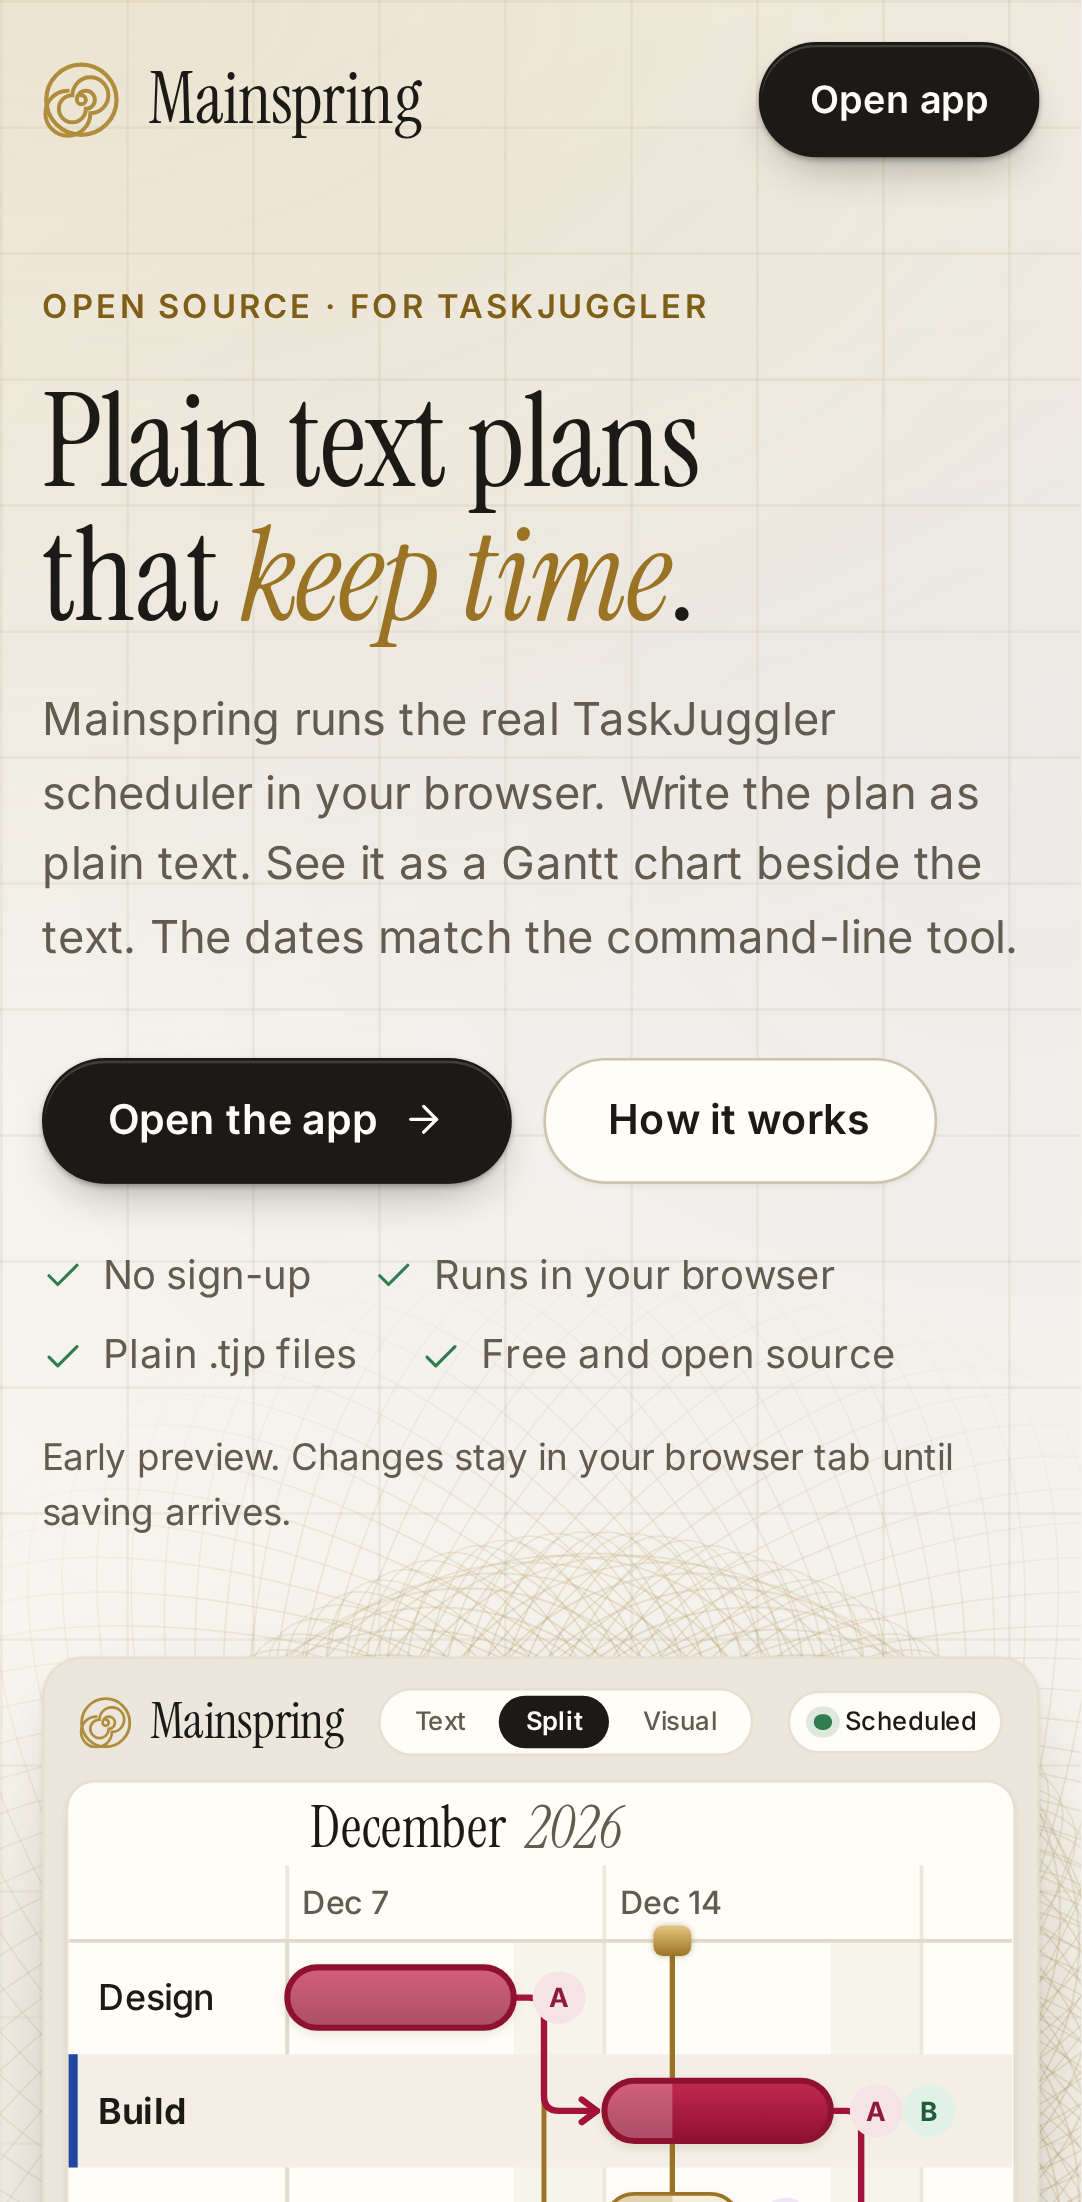
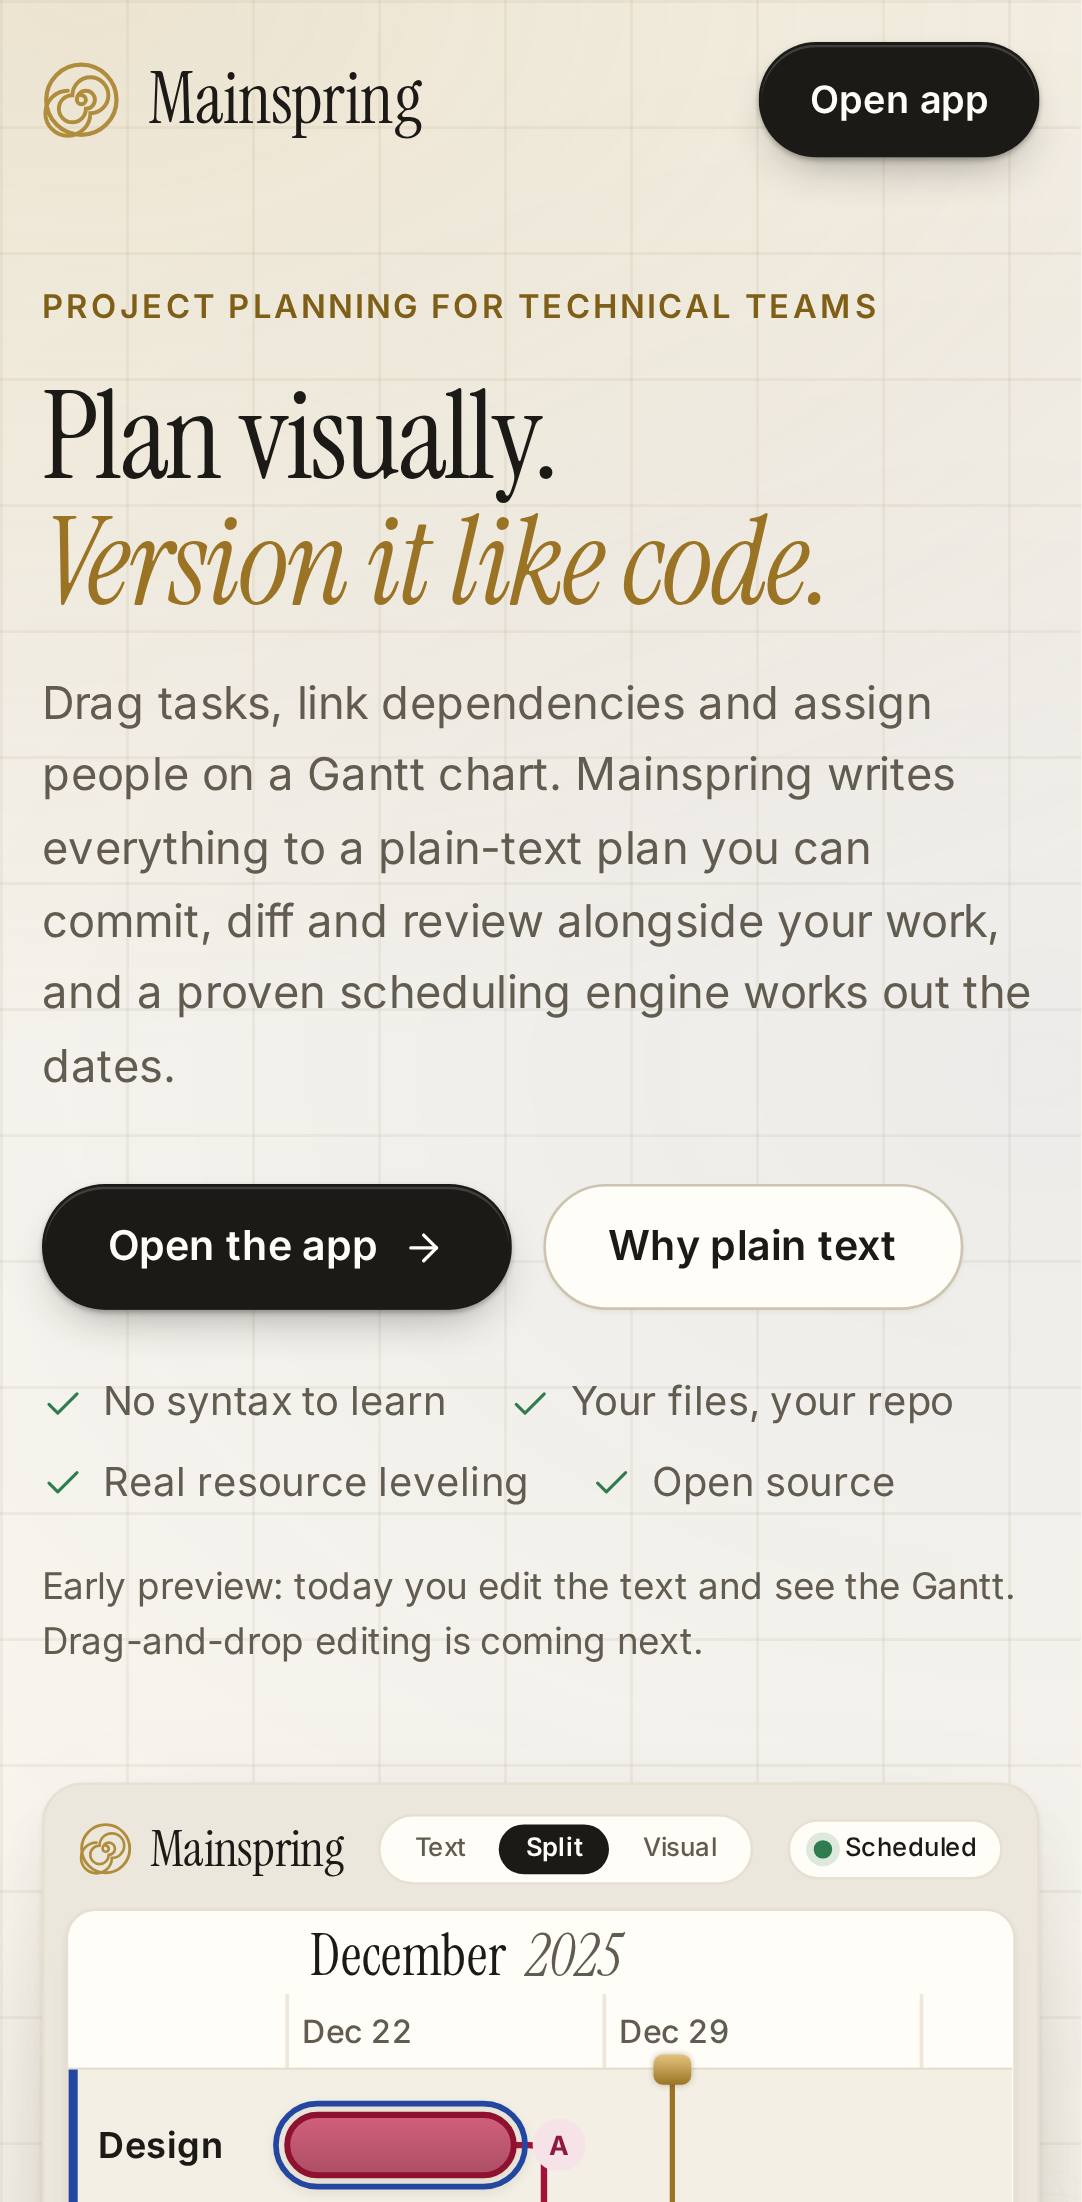
feat(landing): lead with visual planning and plans as code for technical teams (ADR-0011)
Rework the landing page for technical project managers and engineering leads who do not
know TaskJuggler. New hero (Plan visually. Version it like code.) with a Split view mock,
a pull-request section, no syntax to learn, a plain-language scheduler section, who it is
for, FAQ and a short TaskJuggler credit. Visual editing stays tagged Coming. Updates the
honesty tests, e2e tests, ADR-0011 and screenshots.

Claude-Session: https://claude.ai/code/session_018x5vMW7RJi75erXSGU1vHa

diff --git a/tests/e2e/landing.spec.ts b/tests/e2e/landing.spec.ts
@@ -75,7 +75,8 @@ test.describe('landing page', () => {
 		await expect(syntax.locator('.lp-tag')).toHaveCount(3);
 		await expect(page.locator('#repo .lp-tag')).toHaveCount(1);
 		// "What works today" does not list it.
-		await expect(page.locator('#features li.card:not(.ahead)')).not.toContainText(/drag/i);
+		const available = await page.locator('#features li.card:not(.ahead)').allInnerTexts();
+		expect(available.join(' ')).not.toMatch(/drag/i);
 	});
 
 	test('marks every planned feature as coming, and nothing available as coming', async ({

diff --git a/src/styles/landing.css b/src/styles/landing.css
@@ -34,6 +34,7 @@
 	--lp-ruby-bottom: #8f1130;
 	--lp-ruby-soft: #f7e3e8;
 	--lp-ok: #2f7d4f;
+	--lp-ok-text: #1f6b3f;
 	--lp-ok-halo: rgb(47 125 79 / 0.16);
 	/* Chrome of the product mocks */
 	--lp-guilloche: rgb(154 116 36 / 0.22);
@@ -64,6 +65,7 @@
 		--lp-ruby-bottom: #a32447;
 		--lp-ruby-soft: #3a1620;
 		--lp-ok: #6fcf97;
+		--lp-ok-text: #6fcf97;
 		--lp-ok-halo: rgb(111 207 151 / 0.16);
 		--lp-guilloche: rgb(210 174 92 / 0.2);
 		--lp-shadow-mock:

diff --git a/docs/decisions/0011-landing-page.md b/docs/decisions/0011-landing-page.md
@@ -17,30 +17,56 @@ subhead, a dark primary pill button and an outlined secondary one, a row of smal
 a floating product mock with a soft shadow (sometimes tilted), warm grounds with faint colour
 washes or a grid, feature sections with clear headings, and an open-source footer.
 
+## Amendment, 2026-11-13: audience and messaging
+
+The user reviewed the first page and said it explained poorly what is good about the app,
+especially to people who do not know TaskJuggler. The audience is technical project managers and
+engineering leads, not TaskJuggler users. The draw is to build a plan with visual tools and get a
+plain-text file that can be version controlled, with no syntax to learn. TaskJuggler is the proof
+that the scheduling is serious; it is not a prerequisite. The page was restructured around that
+(the structure in decision 2 is the reworked one). Visual editing is still not built: the page
+leads with the aim and says plainly that it is the next step.
+
 ## Decision
 
 1. **A static Astro page with no client script.** The page ships HTML, CSS and inline SVG only.
    There is no framework island. No raster image is used: the product mocks are HTML and SVG, so
    they stay sharp, scale with the screen and follow light and dark. A test asserts that the page
    has no `<img>` and no `<script>`.
-2. **Structure.** Header with a brass mark and navigation; hero; "How it works"; features
-   (available, then coming); "Built on TaskJuggler"; a phone section; a closing call to action;
-   a footer.
-   - **Hero.** Eyebrow "Open source · For TaskJuggler"; the headline "Plain text plans that
-     _keep time_." with an italic brass accent; a subhead; "Open the app" (primary, through
-     `sitePath('app')`) and "How it works" (an anchor); four checkmark facts; and a tilted mock of
-     the Split view, editor beside Gantt.
-   - **How it works.** "The text is the plan. The chart is _a view_." A plan snippet beside its
-     Gantt, with the line `effort 10d` and the Build bar highlighted, and three short steps.
+2. **Structure** (reworked on 2026-11-13, see the amendment above). Header with a brass mark and
+   navigation; hero; "Why your plan belongs in your repository"; "No syntax to learn"; "A
+   scheduler that does the hard part"; who it is for; features (available, then coming); a phone
+   section; a short FAQ; "Built on TaskJuggler"; a closing call to action; a footer.
+   - **Hero.** Eyebrow "Project planning for technical teams"; the headline "Plan visually.
+     _Version it like code._" with an italic brass accent; the subhead; "Open the app" (primary,
+     through `sitePath('app')`) and "Why plain text" (an anchor); four checkmark facts; the honest
+     line "Early preview: today you edit the text and see the Gantt. Drag-and-drop editing is
+     coming next."; and a tilted mock of the Split view: the plain-text plan on the left and its
+     Gantt on the right, for the same four tasks, with Design selected in both (blued-steel edge)
+     and the edited `effort` line in brass.
+   - **Why your plan belongs in your repository.** Five benefits (review like code, history,
+     branch a what-if, no lock-in, plain text outlives any tool) beside a mock pull request that
+     changes `effort 5d` to `effort 8d`, with the note "Finish moves Jan 6 → Jan 9". The note is a
+     schedule diff, which is a planned feature, so it carries a "Coming" tag.
+   - **No syntax to learn.** A drag on the Gantt becomes one small text change. Visual editing
+     is not built, so the Gantt half carries a "Coming" tag, the drag points are tagged, and the
+     page says "Visual editing is the next step. Today you edit the text and the Gantt follows."
+   - **A scheduler that does the hard part.** Four plain-language cards with small drawings:
+     effort shared by people, nobody double-booked, holidays and leave, the critical path; then
+     the credit to TaskJuggler.
+   - **Who it is for.** Engineering leads, technical project managers, hardware and systems teams.
    - **Features.** Six cards for what works today, then six dashed cards, each with a small brass
      "Coming" tag.
-   - **Built on TaskJuggler.** Credit and a link to taskjuggler.org, what TaskJuggler schedules,
-     the GPL notice, and a "movement" plate with the engine's specification.
    - **Phone.** A phone mock with the Gantt, a task card and the pill tab bar.
+   - **FAQ.** Do I need to know TaskJuggler (no), where do my plans live (in the browser tab today),
+     is it free (yes), can I use my existing TaskJuggler files (yes, paste them in today).
+   - **Built on TaskJuggler.** Kept short: the credit, a link to taskjuggler.org, the GPL notice
+     and a "movement" plate with the engine's specification.
 3. **Honesty rule.** A feature is shown as available only if it works in the app today. These are
    available: the real TaskJuggler 3.8.4 scheduler in the browser (identical to the native tool
    on the golden test plans); plain-text `.tjp` as the only source of truth; the editor with live
-   scheduling, inline errors, completion and docs generated from TaskJuggler; the read-only
+   scheduling, inline errors, completion and docs generated from TaskJuggler (visual editing is
+   not available and is never described as if it were); the read-only
    Gantt beside the text; light and dark; phone, tablet and desktop layouts; no sign-up, open
    source (GPL-2.0-or-later), local in the browser. These are shown with a "Coming" tag, from
    `docs/BUILD_PLAN.md`: visual editing; workload heatmap and resources; plan health checks;
@@ -67,27 +93,36 @@ washes or a grid, feature sections with clear headings, and an open-source foote
      ruby, the brass text colour `#7F5F18` / `#D2AE5C`, which meets 4.5:1 for small labels where
      ADR-0009's `#9A7424` is 3.9:1 on the page ground).
 5. **Copy in its own file.** The app keeps user-facing copy in `src/lib/strings.ts`. The landing
-   page keeps its copy in `src/lib/landing-copy.ts`, so marketing text can change without
+   page keeps its copy in `src/lib/landing-copy.ts` and `landing-copy-more.ts`, so marketing text can change without
    touching the app's strings. The illustrated plan and its task names live in
    `src/lib/landing-sample.ts`.
 6. **The mocks are illustrations of a plan the real engine scheduled.** The sample plan in the
-   mocks (`relaunch.tjp`: Design, Build, Docs, Test, Launch) was scheduled in the browser engine
-   on 2026-11-13 and the bars follow its dates: Build runs five working days for ten days of
-   effort shared by two people, and Design, Build, Test and Launch are the critical path. The
-   mocks follow the refined design (ADR-0009), which is ahead of the built app in places (the
-   floating chips, the pill tab bar, the power-reserve gauge).
+   mocks (`plan.tjp`: Design, Build, Docs, Test, Launch, starting Mon 2025-12-22) was scheduled in
+   the browser engine on 2026-11-13, and the bars follow its dates. With `effort 5d` on Design
+   the Launch milestone falls on Jan 6; with `effort 8d` it falls on Jan 9, which is the
+   pull-request note. Build is ten days of effort shared by two people, five working days, and
+   Design, Build, Test and Launch are the critical path. The year-end dates are chosen so that
+   Jan 6 and Jan 9 are a Tuesday and a Friday, three working days apart. The mocks follow the
+   refined design (ADR-0009), which is ahead of the built app in places (the floating chips, the
+   pill tab bar, the power-reserve gauge). The mode switch in the hero shows Split, which the app
+   has today. The drag handle and "8d" label in "No syntax to learn" show a feature that is not
+   built, and are tagged "Coming".
 7. **Accessibility and performance.** One `h1`, `h2` per section, `h3` per card; landmarks;
    a skip link (from the base layout); each mock is one `role="img"` with a text description;
    decorative SVG is hidden from assistive technology; a 3 px focus ring; touch targets of at
    least 44 px; text pairs checked against WCAG 2.2 AA in both schemes; no horizontal scroll from
    320 px up; transitions use the motion tokens, which are zero under reduced motion. The page is
-   about 80 KB of HTML (11 KB gzipped, most of it inline SVG) and 27 KB of CSS, plus the fonts
+   about 96 KB of HTML (13 KB gzipped, most of it inline SVG) and 34 KB of CSS, plus the fonts
    the app already ships.
 8. **Base path.** Links to the app and home use `sitePath()`. In-page links are anchors. External
    links are absolute `https://` URLs. The base-path scan and test cover it.
-9. **Tests.** `src/lib/landing-copy.test.ts` and `src/lib/landing-art.test.ts` (unit);
+9. **Tests.** `src/lib/landing-copy.test.ts` and `src/lib/landing-art.test.ts` (unit; the copy
+   test pins the hero line about drag-and-drop being next, that every drag-related point is
+   tagged, that the six coming features stay tagged and that the pull-request story is
+   consistent);
    `tests/e2e/landing.spec.ts` (renders in light and dark, the app links under the base path,
-   "Coming" tags, no sideways scroll, axe clean, focus ring, reduced motion);
+   "Coming" tags, the hero does not claim visual editing, no sideways scroll, axe clean, focus
+   ring, reduced motion);
    `tests/base-path/pages.spec.ts` now checks every root-relative link on the home page and
    follows the first "Open the app" link, since the page offers it twice.
 
